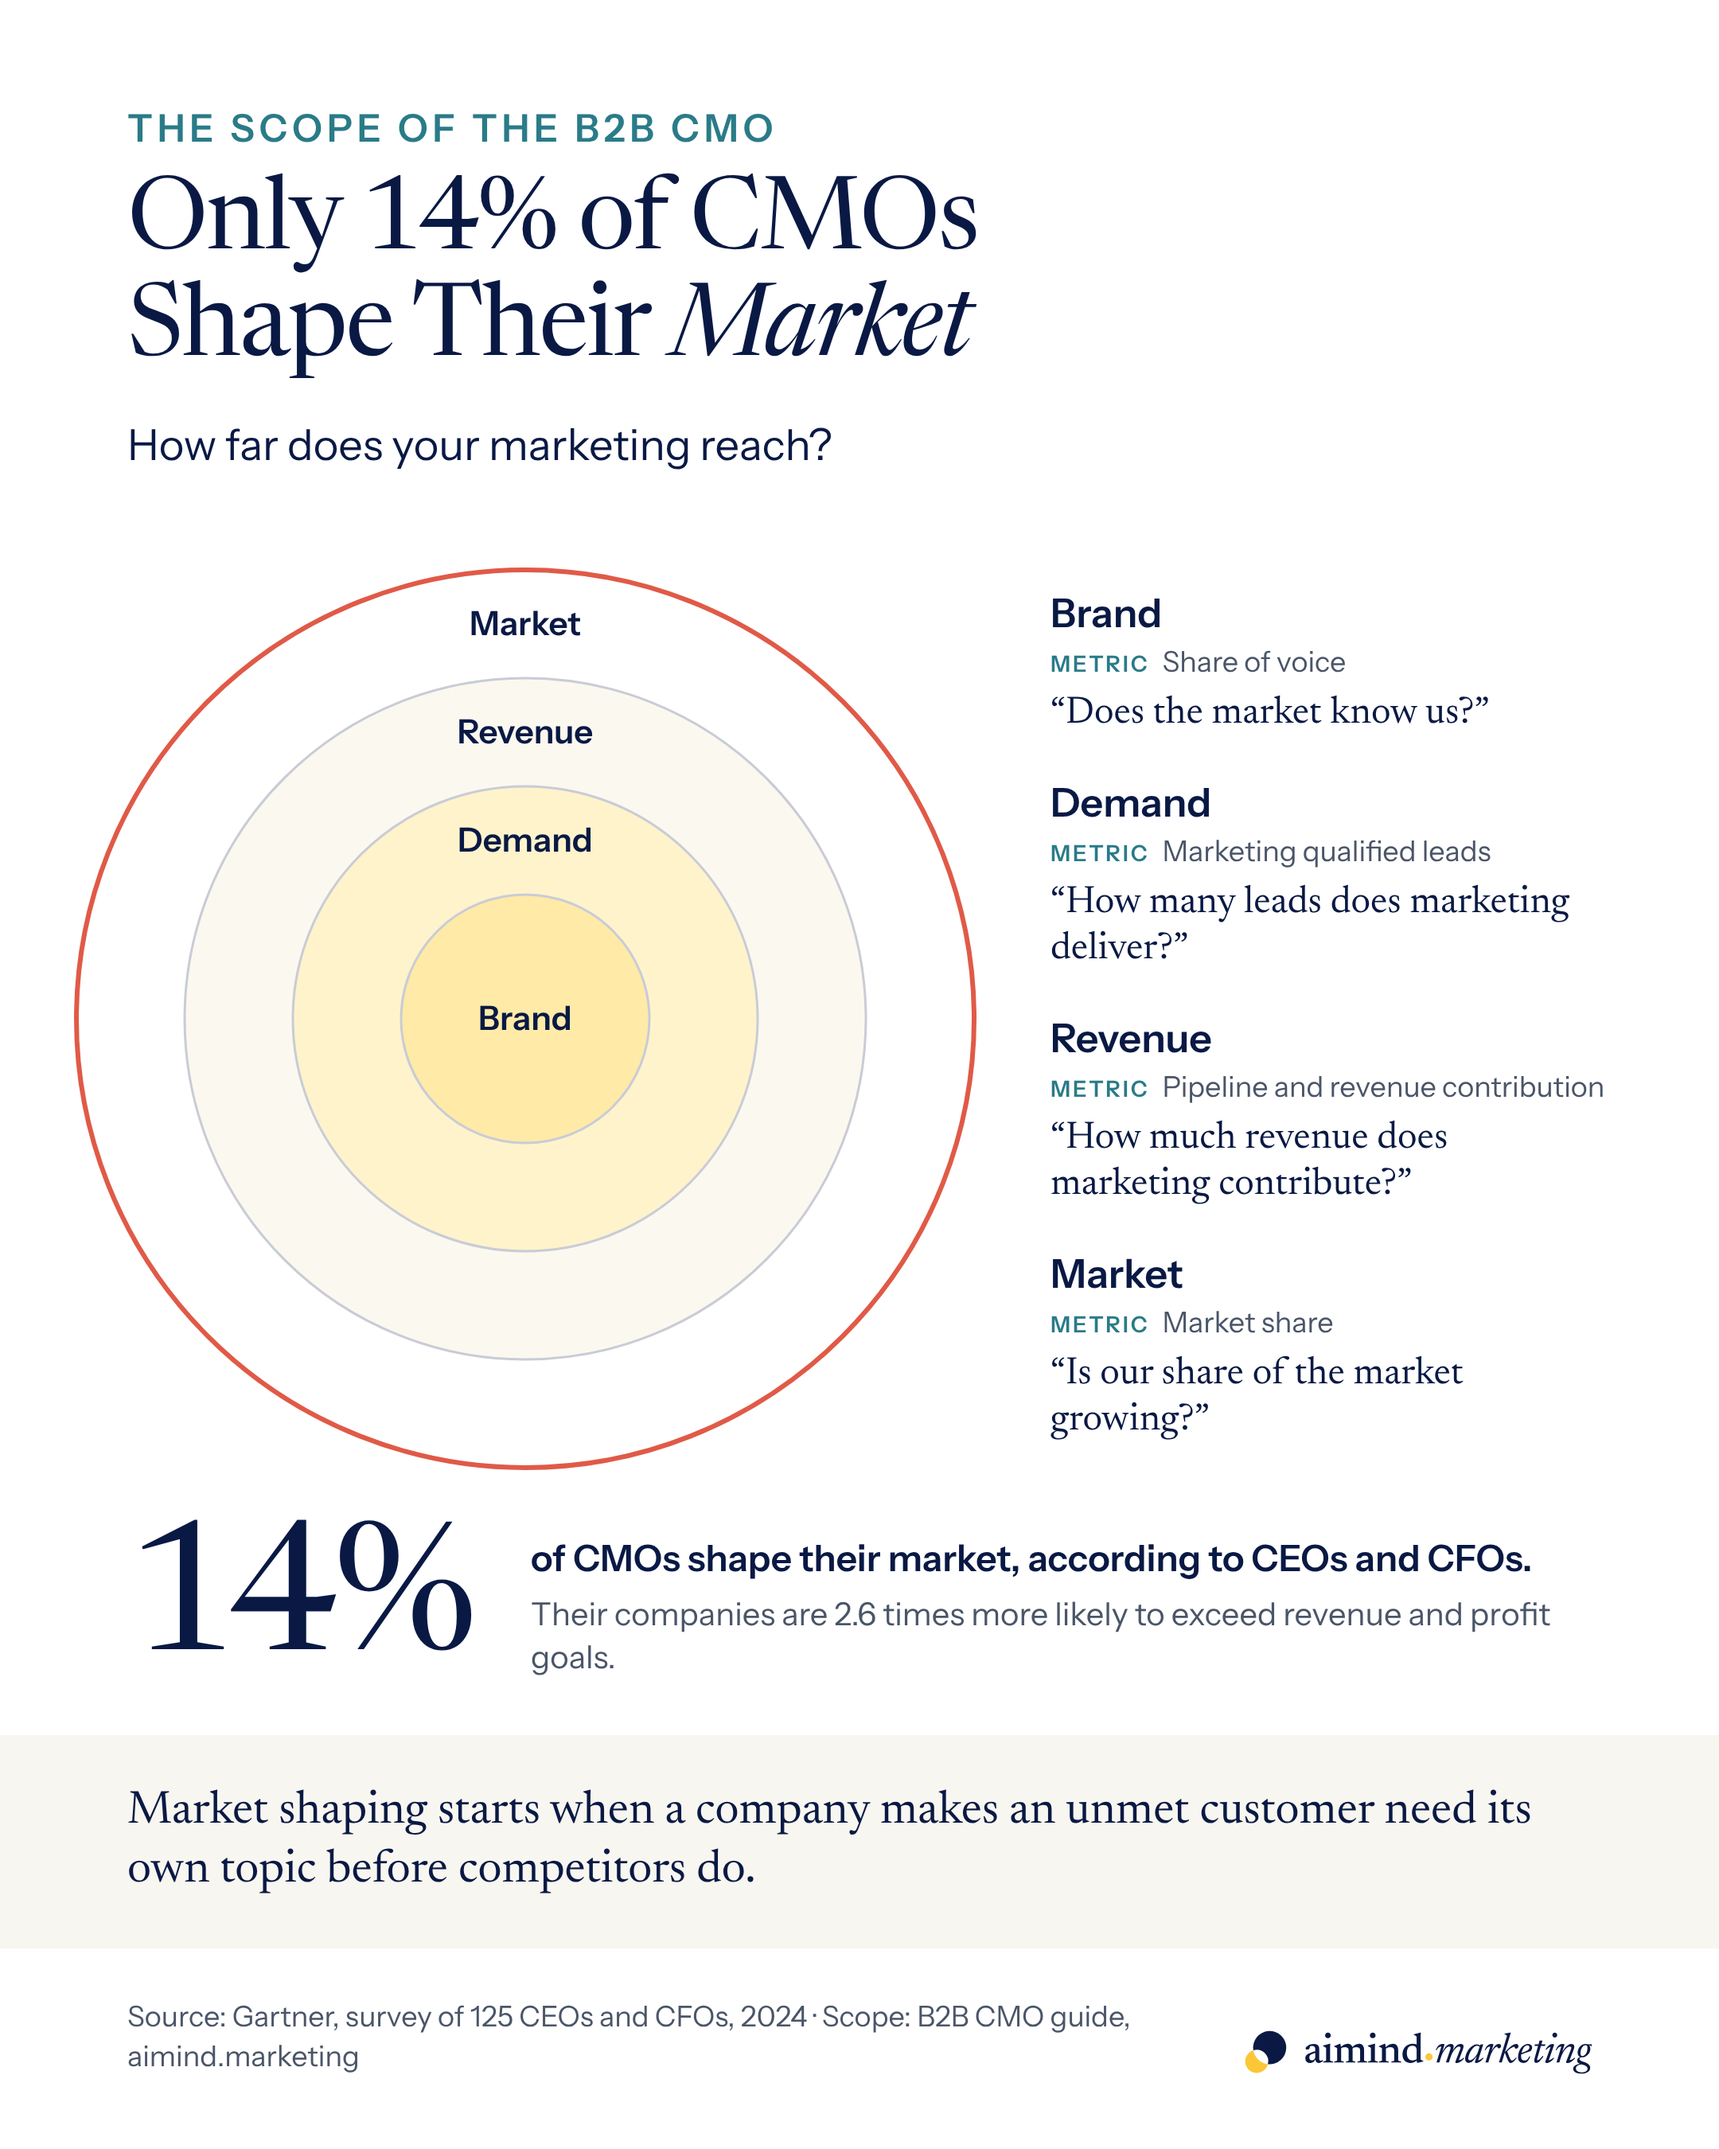
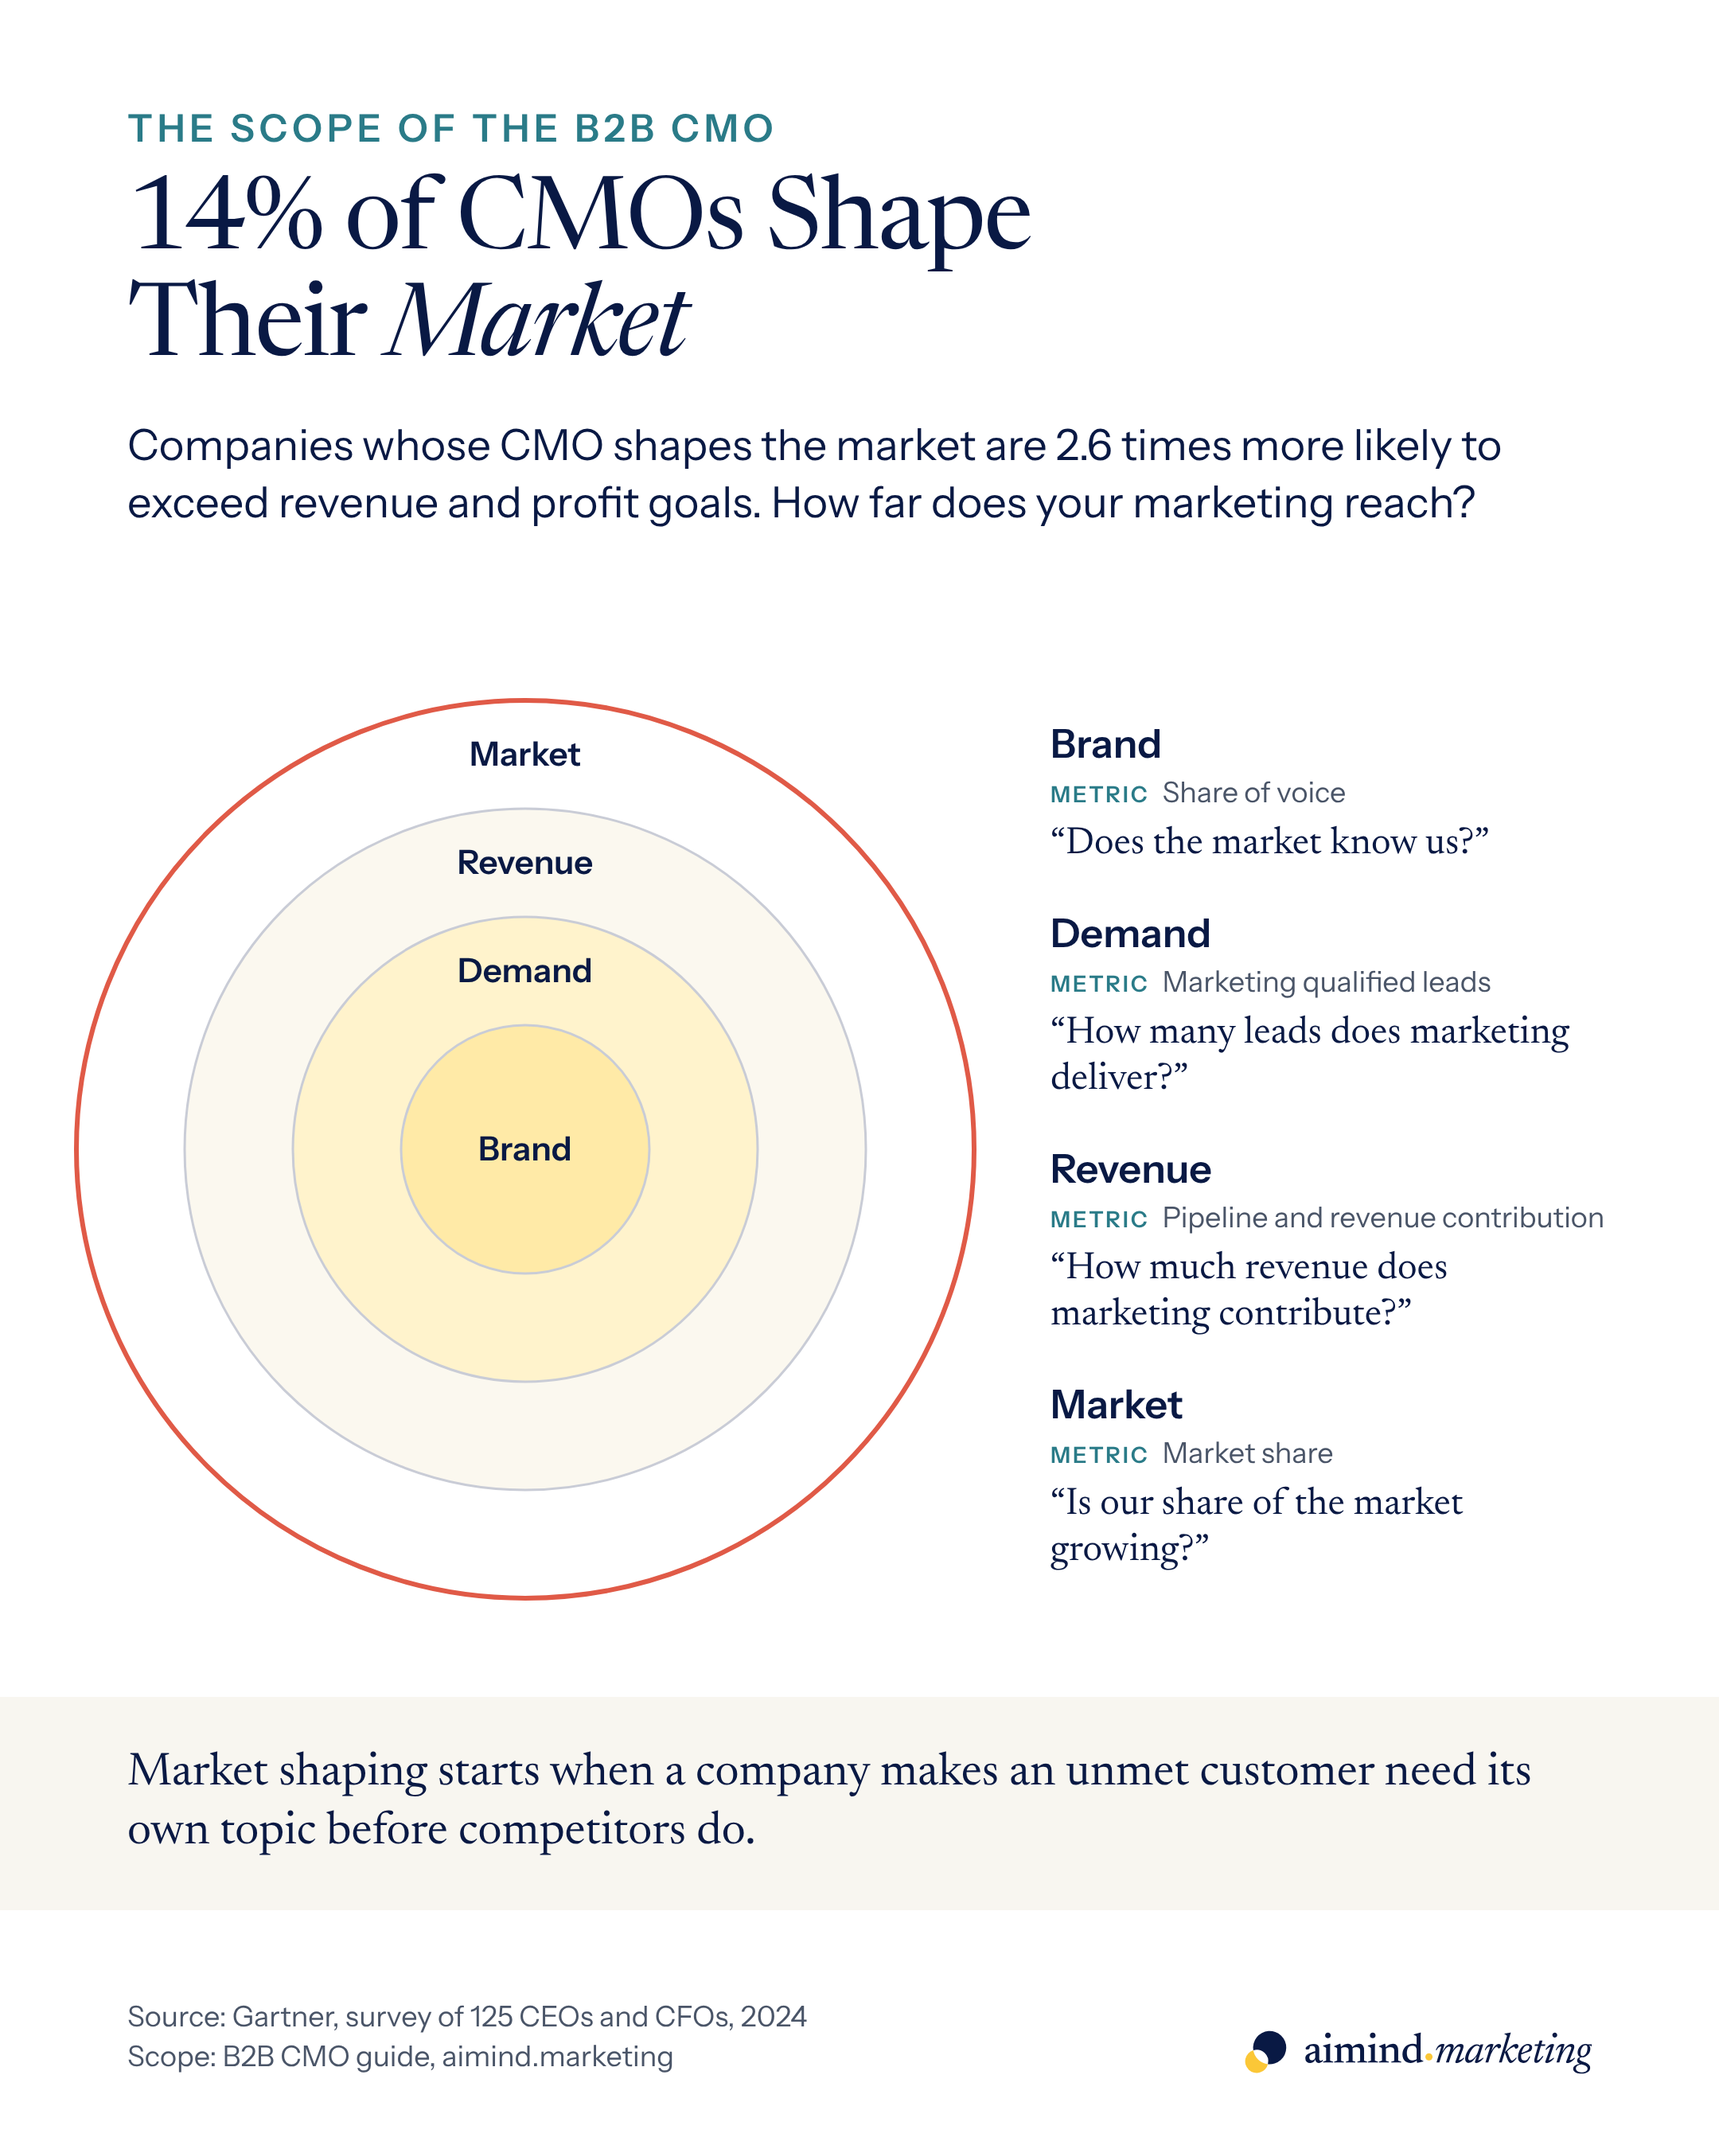
CMO infographic: 14% only in the title, 2.6x in the subline, figure block removed (DE/EN)
Claude-Session: https://claude.ai/code/session_01EoT7BpRMXSboJ4awkNYbjF

diff --git a/design/infographics/cmo-scope-de.html b/design/infographics/cmo-scope-de.html
@@ -11,31 +11,30 @@ body{background:#fff;font-family:"Instrument Sans",sans-serif;color:var(--navy);
 .kicker{position:absolute;left:80px;top:66px;font-size:24px;font-weight:600;letter-spacing:.12em;color:var(--cyan);text-transform:uppercase}
 h1{position:absolute;left:80px;top:108px;width:920px;font-family:"Newsreader",serif;font-weight:400;font-size:64px;line-height:1.04;letter-spacing:-.02em}
 h1 em{font-style:italic}
-.sub{position:absolute;left:80px;top:262px;font-size:27px;line-height:1.35}
+.sub{position:absolute;left:80px;top:262px;width:900px;font-size:27px;line-height:1.35}
 svg{position:absolute;left:0;top:0}
 .lab{font-family:"Instrument Sans",sans-serif;font-size:21px;font-weight:600;fill:#091944}
-.list{position:absolute;left:660px;width:350px;top:370px}
+.list{position:absolute;left:660px;width:350px;top:452px}
 .i{margin-bottom:26px}
 .i h2{font-size:25px;line-height:1.2;font-weight:600}
 .i .m{font-size:18px;line-height:1.35;color:var(--slate);margin-top:4px}
 .i .m span{font-size:14px;font-weight:600;letter-spacing:.1em;text-transform:uppercase;color:var(--cyan);margin-right:8px}
 .i .q{font-family:"Newsreader",serif;font-size:24px;line-height:1.2;margin-top:6px}
-.fig{position:absolute;left:80px;right:80px;top:960px;display:flex;gap:36px;align-items:center}
+.fig{position:absolute;left:80px;right:80px;top:0px;display:flex;gap:36px;align-items:center}
 .fig .big{font-family:"Newsreader",serif;font-size:112px;line-height:.9;letter-spacing:-.02em;white-space:nowrap}
 .fig .a{font-size:23px;line-height:1.3;font-weight:600}
 .fig .b{font-size:20px;line-height:1.38;color:var(--slate);margin-top:6px}
-.band{position:absolute;left:0;right:0;top:1090px;background:var(--off);padding:30px 80px}
+.band{position:absolute;left:0;right:0;top:1066px;background:var(--off);padding:30px 80px}
 .band p{font-family:"Newsreader",serif;font-size:29px;line-height:1.28;max-width:920px}
 .foot{position:absolute;left:80px;right:80px;bottom:46px;display:flex;justify-content:space-between;align-items:flex-end}
 .src{font-size:18px;line-height:1.35;color:var(--slate);max-width:640px}
 .foot img{width:220px}
 </style></head><body>
 <div class="kicker">Die Aufgaben des B2B-CMO</div>
-<h1>Nur 14&nbsp;% der CMOs<br>gestalten ihren <em>Markt</em></h1>
-<p class="sub">Wie weit reicht Ihr Marketing?</p>
-<svg width="1080" height="1350" viewBox="0 0 1080 1350"><circle cx="330" cy="640" r="282" fill="#ffffff" stroke="#e05a47" stroke-width="3"/><circle cx="330" cy="640" r="214" fill="#fbf8ef" stroke="#c9ccd6" stroke-width="1.5"/><circle cx="330" cy="640" r="146" fill="#fff3cc" stroke="#c9ccd6" stroke-width="1.5"/><circle cx="330" cy="640" r="78" fill="#ffeaa7" stroke="#c9ccd6" stroke-width="1.5"/><text class="lab" x="330" y="647" text-anchor="middle">Marke</text><text class="lab" x="330" y="535.0" text-anchor="middle">Nachfrage</text><text class="lab" x="330" y="467.0" text-anchor="middle">Umsatz</text><text class="lab" x="330" y="399.0" text-anchor="middle">Markt</text></svg>
+<h1>14&nbsp;% der CMOs gestalten<br>ihren <em>Markt</em></h1>
+<p class="sub">Unternehmen, deren CMO den Markt gestaltet, übertreffen ihre Umsatz- und Gewinnziele 2,6-mal so häufig wie andere. Wie weit reicht Ihr Marketing?</p>
+<svg width="1080" height="1350" viewBox="0 0 1080 1350"><circle cx="330" cy="722" r="282" fill="#ffffff" stroke="#e05a47" stroke-width="3"/><circle cx="330" cy="722" r="214" fill="#fbf8ef" stroke="#c9ccd6" stroke-width="1.5"/><circle cx="330" cy="722" r="146" fill="#fff3cc" stroke="#c9ccd6" stroke-width="1.5"/><circle cx="330" cy="722" r="78" fill="#ffeaa7" stroke="#c9ccd6" stroke-width="1.5"/><text class="lab" x="330" y="729" text-anchor="middle">Marke</text><text class="lab" x="330" y="617.0" text-anchor="middle">Nachfrage</text><text class="lab" x="330" y="549.0" text-anchor="middle">Umsatz</text><text class="lab" x="330" y="481.0" text-anchor="middle">Markt</text></svg>
 <div class="list"><div class="i"><h2>Marke</h2><div class="m"><span>Kennzahl</span>Share of Voice</div><div class="q">„Kennt uns der Markt?“</div></div><div class="i"><h2>Nachfrage</h2><div class="m"><span>Kennzahl</span>Marketing Qualified Leads</div><div class="q">„Wie viele Leads bringt das Marketing?“</div></div><div class="i"><h2>Umsatz</h2><div class="m"><span>Kennzahl</span>Pipeline und Umsatzbeitrag</div><div class="q">„Wie viel Umsatz trägt das Marketing bei?“</div></div><div class="i last"><h2>Markt</h2><div class="m"><span>Kennzahl</span>Marktanteil</div><div class="q">„Wächst unser Anteil am Markt?“</div></div></div>
-<div class="fig"><div class="big">14&nbsp;%</div><div><div class="a">der CMOs gestalten ihren Markt, sagen CEOs und CFOs.</div><div class="b">Ihre Unternehmen übertreffen ihre Umsatz- und Gewinnziele 2,6-mal so häufig wie andere.</div></div></div>
 <div class="band"><p>Marktgestaltung beginnt, wenn ein Unternehmen ein unerfülltes Bedürfnis seiner Kunden zu seinem Thema macht, bevor es der Wettbewerb tut.</p></div>
-<div class="foot"><div class="src">Quelle: Gartner, Umfrage unter 125 CEOs und CFOs, 2024 · Aufgaben: Leitfaden B2B-CMO, aimind.marketing</div><img src="../logo/svg/aimind-logo.svg" alt="aimind.marketing"></div>
+<div class="foot"><div class="src">Quelle: Gartner, Umfrage unter 125 CEOs und CFOs, 2024<br>Aufgaben: Leitfaden B2B-CMO, aimind.marketing</div><img src="../logo/svg/aimind-logo.svg" alt="aimind.marketing"></div>
 </body></html>

diff --git a/design/infographics/cmo-scope-en.html b/design/infographics/cmo-scope-en.html
@@ -11,31 +11,30 @@ body{background:#fff;font-family:"Instrument Sans",sans-serif;color:var(--navy);
 .kicker{position:absolute;left:80px;top:66px;font-size:24px;font-weight:600;letter-spacing:.12em;color:var(--cyan);text-transform:uppercase}
 h1{position:absolute;left:80px;top:108px;width:920px;font-family:"Newsreader",serif;font-weight:400;font-size:64px;line-height:1.04;letter-spacing:-.02em}
 h1 em{font-style:italic}
-.sub{position:absolute;left:80px;top:262px;font-size:27px;line-height:1.35}
+.sub{position:absolute;left:80px;top:262px;width:900px;font-size:27px;line-height:1.35}
 svg{position:absolute;left:0;top:0}
 .lab{font-family:"Instrument Sans",sans-serif;font-size:21px;font-weight:600;fill:#091944}
-.list{position:absolute;left:660px;width:350px;top:370px}
+.list{position:absolute;left:660px;width:350px;top:452px}
 .i{margin-bottom:26px}
 .i h2{font-size:25px;line-height:1.2;font-weight:600}
 .i .m{font-size:18px;line-height:1.35;color:var(--slate);margin-top:4px}
 .i .m span{font-size:14px;font-weight:600;letter-spacing:.1em;text-transform:uppercase;color:var(--cyan);margin-right:8px}
 .i .q{font-family:"Newsreader",serif;font-size:24px;line-height:1.2;margin-top:6px}
-.fig{position:absolute;left:80px;right:80px;top:960px;display:flex;gap:36px;align-items:center}
+.fig{position:absolute;left:80px;right:80px;top:0px;display:flex;gap:36px;align-items:center}
 .fig .big{font-family:"Newsreader",serif;font-size:112px;line-height:.9;letter-spacing:-.02em;white-space:nowrap}
 .fig .a{font-size:23px;line-height:1.3;font-weight:600}
 .fig .b{font-size:20px;line-height:1.38;color:var(--slate);margin-top:6px}
-.band{position:absolute;left:0;right:0;top:1090px;background:var(--off);padding:30px 80px}
+.band{position:absolute;left:0;right:0;top:1066px;background:var(--off);padding:30px 80px}
 .band p{font-family:"Newsreader",serif;font-size:29px;line-height:1.28;max-width:920px}
 .foot{position:absolute;left:80px;right:80px;bottom:46px;display:flex;justify-content:space-between;align-items:flex-end}
 .src{font-size:18px;line-height:1.35;color:var(--slate);max-width:640px}
 .foot img{width:220px}
 </style></head><body>
 <div class="kicker">The scope of the B2B CMO</div>
-<h1>Only 14% of CMOs<br>Shape Their <em>Market</em></h1>
-<p class="sub">How far does your marketing reach?</p>
-<svg width="1080" height="1350" viewBox="0 0 1080 1350"><circle cx="330" cy="640" r="282" fill="#ffffff" stroke="#e05a47" stroke-width="3"/><circle cx="330" cy="640" r="214" fill="#fbf8ef" stroke="#c9ccd6" stroke-width="1.5"/><circle cx="330" cy="640" r="146" fill="#fff3cc" stroke="#c9ccd6" stroke-width="1.5"/><circle cx="330" cy="640" r="78" fill="#ffeaa7" stroke="#c9ccd6" stroke-width="1.5"/><text class="lab" x="330" y="647" text-anchor="middle">Brand</text><text class="lab" x="330" y="535.0" text-anchor="middle">Demand</text><text class="lab" x="330" y="467.0" text-anchor="middle">Revenue</text><text class="lab" x="330" y="399.0" text-anchor="middle">Market</text></svg>
+<h1>14% of CMOs Shape<br>Their <em>Market</em></h1>
+<p class="sub">Companies whose CMO shapes the market are 2.6 times more likely to exceed revenue and profit goals. How far does your marketing reach?</p>
+<svg width="1080" height="1350" viewBox="0 0 1080 1350"><circle cx="330" cy="722" r="282" fill="#ffffff" stroke="#e05a47" stroke-width="3"/><circle cx="330" cy="722" r="214" fill="#fbf8ef" stroke="#c9ccd6" stroke-width="1.5"/><circle cx="330" cy="722" r="146" fill="#fff3cc" stroke="#c9ccd6" stroke-width="1.5"/><circle cx="330" cy="722" r="78" fill="#ffeaa7" stroke="#c9ccd6" stroke-width="1.5"/><text class="lab" x="330" y="729" text-anchor="middle">Brand</text><text class="lab" x="330" y="617.0" text-anchor="middle">Demand</text><text class="lab" x="330" y="549.0" text-anchor="middle">Revenue</text><text class="lab" x="330" y="481.0" text-anchor="middle">Market</text></svg>
 <div class="list"><div class="i"><h2>Brand</h2><div class="m"><span>Metric</span>Share of voice</div><div class="q">“Does the market know us?”</div></div><div class="i"><h2>Demand</h2><div class="m"><span>Metric</span>Marketing qualified leads</div><div class="q">“How many leads does marketing deliver?”</div></div><div class="i"><h2>Revenue</h2><div class="m"><span>Metric</span>Pipeline and revenue contribution</div><div class="q">“How much revenue does marketing contribute?”</div></div><div class="i last"><h2>Market</h2><div class="m"><span>Metric</span>Market share</div><div class="q">“Is our share of the market growing?”</div></div></div>
-<div class="fig"><div class="big">14%</div><div><div class="a">of CMOs shape their market, according to CEOs and CFOs.</div><div class="b">Their companies are 2.6 times more likely to exceed revenue and profit goals.</div></div></div>
 <div class="band"><p>Market shaping starts when a company makes an unmet customer need its own topic before competitors do.</p></div>
-<div class="foot"><div class="src">Source: Gartner, survey of 125 CEOs and CFOs, 2024 · Scope: B2B CMO guide, aimind.marketing</div><img src="../logo/svg/aimind-logo.svg" alt="aimind.marketing"></div>
+<div class="foot"><div class="src">Source: Gartner, survey of 125 CEOs and CFOs, 2024<br>Scope: B2B CMO guide, aimind.marketing</div><img src="../logo/svg/aimind-logo.svg" alt="aimind.marketing"></div>
 </body></html>
